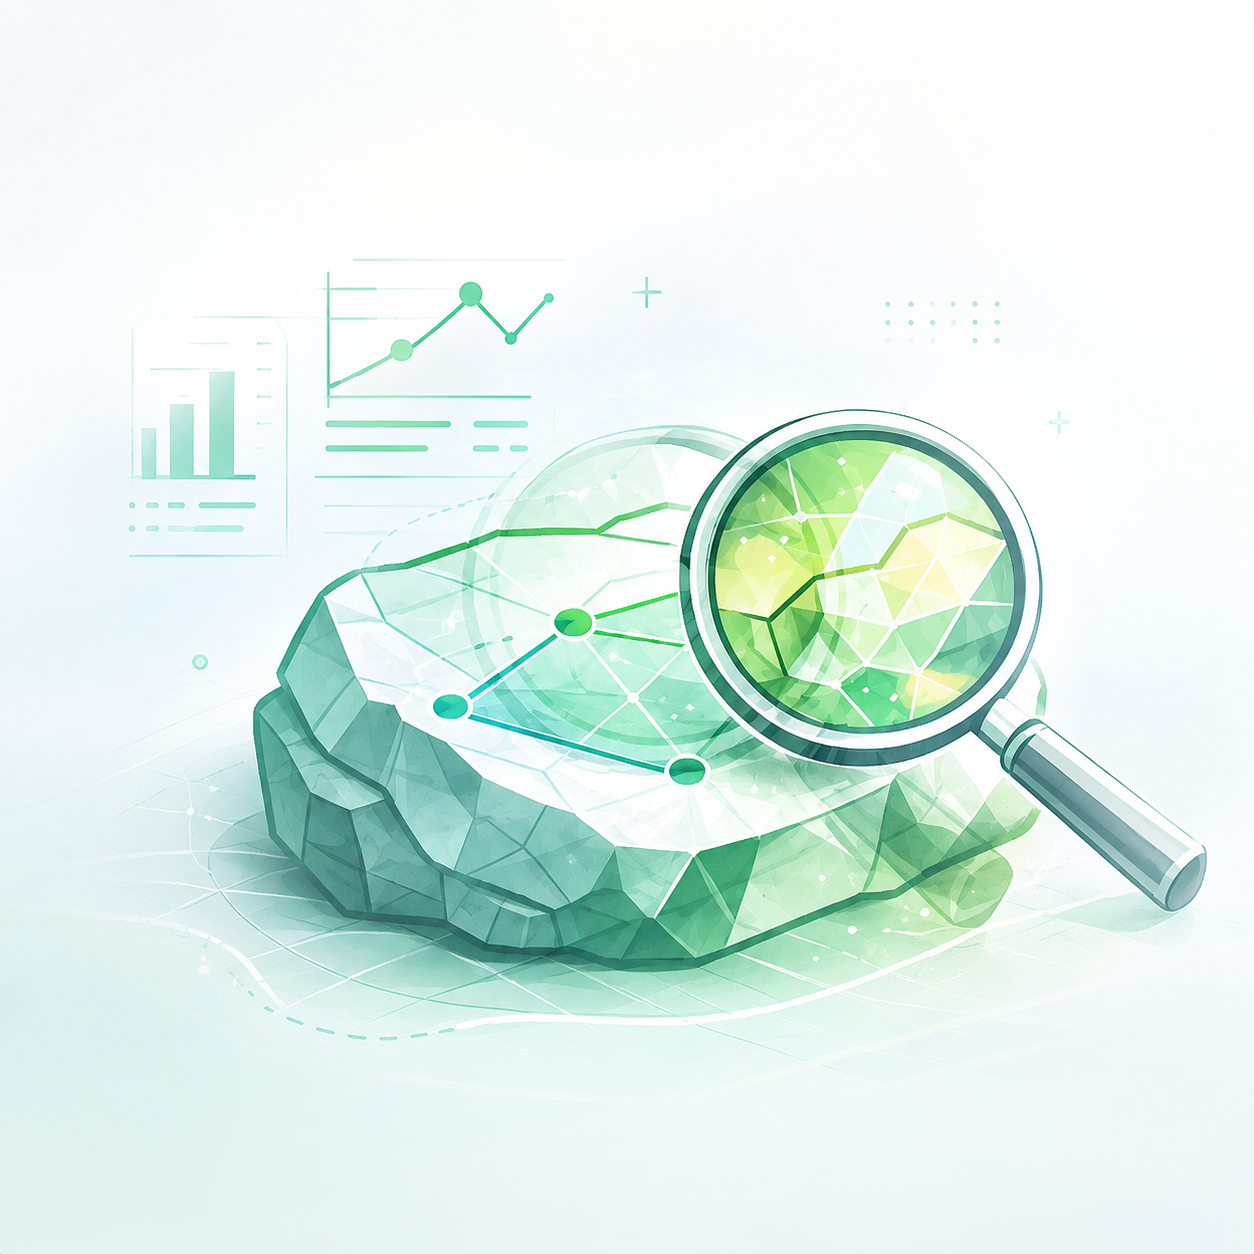
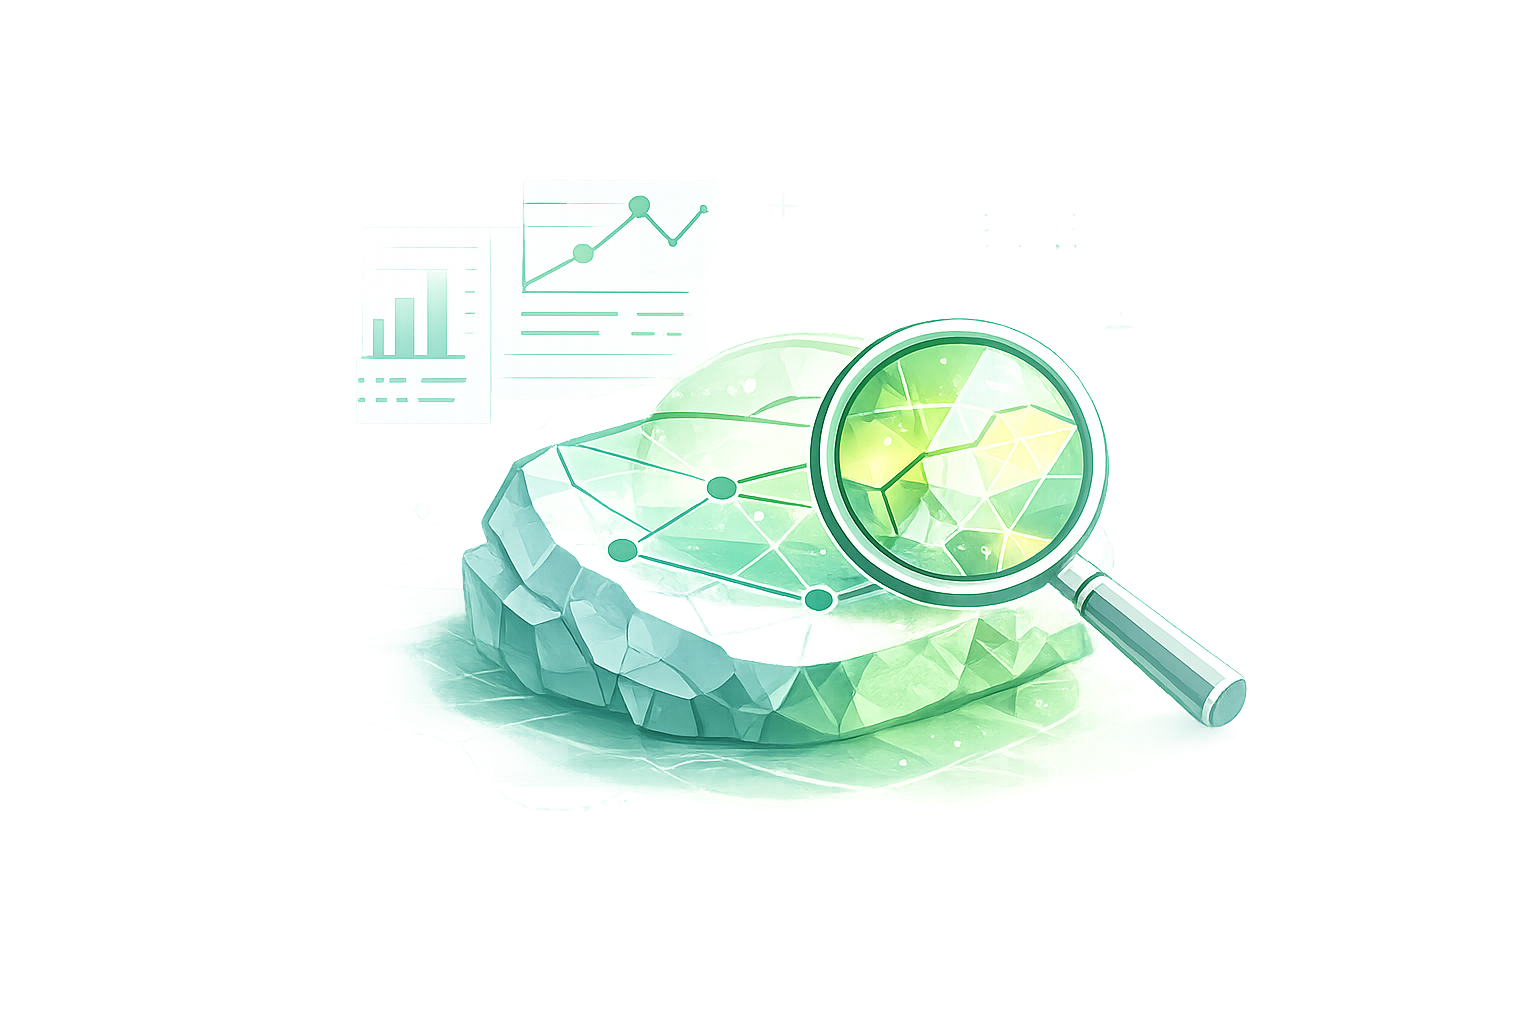
Refine home card illustration display

diff --git a/index.html b/index.html
@@ -181,14 +181,21 @@
       top: 8px;
       right: 8px;
       bottom: 8px;
-      width: 56%;
+      width: 136px;
       background-repeat: no-repeat;
       background-position: right center;
-      background-size: 112px 112px;
+      background-size: 123px 123px;
       opacity: 0.34;
+      filter: contrast(1.2) saturate(1.06);
       pointer-events: none;
-      mask-image: linear-gradient(90deg, transparent 0%, rgba(0, 0, 0, 0.72) 24%, #000 100%);
-      -webkit-mask-image: linear-gradient(90deg, transparent 0%, rgba(0, 0, 0, 0.72) 24%, #000 100%);
+      mask-image:
+        linear-gradient(90deg, transparent 0%, rgba(0, 0, 0, 0.86) 16%, #000 42%, #000 78%, transparent 100%),
+        linear-gradient(180deg, transparent 0%, rgba(0, 0, 0, 0.88) 12%, #000 32%, #000 86%, transparent 100%);
+      mask-composite: intersect;
+      -webkit-mask-image:
+        linear-gradient(90deg, transparent 0%, rgba(0, 0, 0, 0.86) 16%, #000 42%, #000 78%, transparent 100%),
+        linear-gradient(180deg, transparent 0%, rgba(0, 0, 0, 0.88) 12%, #000 32%, #000 86%, transparent 100%);
+      -webkit-mask-composite: source-in;
     }
 
     .module-card > * {
@@ -373,7 +380,7 @@
 
     .module-card.primary-module::before {
       background-image: url("assets/home-coordinate-illustration.png");
-      opacity: 0.40;
+      opacity: 0.32;
     }
 
     .module-card.judge-module {
@@ -383,7 +390,7 @@
 
     .module-card.judge-module::before {
       background-image: url("assets/home-judge-illustration.png");
-      opacity: 0.37;
+      opacity: 0.30;
     }
 
     .module-card.gold-module {
@@ -393,7 +400,7 @@
 
     .module-card.gold-module::before {
       background-image: url("assets/home-gold-illustration.png");
-      opacity: 0.40;
+      opacity: 0.32;
     }
 
     .module-card.primary-module:hover {
@@ -3090,13 +3097,13 @@
         top: 6px;
         right: 8px;
         bottom: 6px;
-        width: 48%;
-        background-size: 100px 100px;
-        opacity: 0.36;
+        width: 122px;
+        background-size: 110px 110px;
+        opacity: 0.29;
       }
 
       .module-card.judge-module::before {
-        opacity: 0.38;
+        opacity: 0.30;
       }
 
       .module-card strong {
